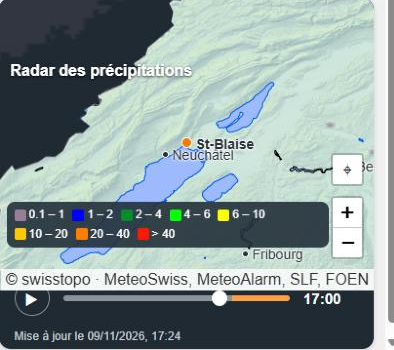
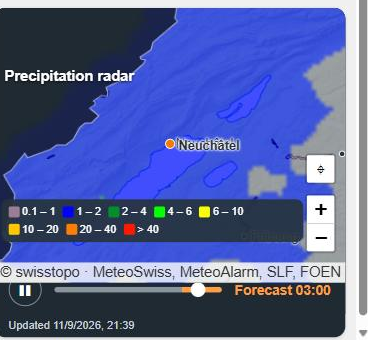
2026.11.7: new HACS page (all in one, 5 languages, animated or static), Neuchâtel and Bern examples

diff --git a/custom_components/meteoswiss4ha/frontend/meteoswiss-map.js b/custom_components/meteoswiss4ha/frontend/meteoswiss-map.js
@@ -678,7 +678,7 @@ class MeteoSwissMap {
     const kind = this.warnKind;
     const loc = lang(this._hass, this.options?.language);
     const fmt = (s) => (s ? new Date(s).toLocaleString(loc, {
-      weekday: "short", day: "numeric", month: "numeric", hour: "2-digit", minute: "2-digit",
+      weekday: "short", day: "numeric", month: "numeric", hour: "2-digit", minute: "2-digit", hourCycle: "h23",
     }) : "");
     const now = Date.now();
     const esc = (t) => String(t || "").replace(/[&<>"]/g, (c) => ({ "&": "&amp;", "<": "&lt;", ">": "&gt;", '"': "&quot;" })[c]);
@@ -820,7 +820,7 @@ class MeteoSwissMap {
     const frame = this._radarFrames[index];
     this._radarFrames.forEach((f, i) => f.layer.setOpacity(i === index ? (f.forecast ? 0.75 : 0.85) : 0));
     this.player.querySelector("input").value = index;
-    const t = new Date(frame.time).toLocaleTimeString(lang(this._hass, this.options?.language), { hour: "2-digit", minute: "2-digit" });
+    const t = new Date(frame.time).toLocaleTimeString(lang(this._hass, this.options?.language), { hour: "2-digit", minute: "2-digit", hourCycle: "h23" });
     const label = this.player.querySelector(".time");
     label.textContent = frame.forecast ? `${this.t.forecastLabel} ${t}` : t;
     label.classList.toggle("fc", frame.forecast);
@@ -888,7 +888,7 @@ class MeteoSwissMap {
     const when = dates.length ? new Date(Math.max(...dates)) : new Date(this.data.updated);
     this.updated.hidden = false;
     this.updated.textContent = `${this.t.updated} ${when.toLocaleDateString(lang(this._hass, this.options?.language))}${
-      dates.length ? "" : ", " + when.toLocaleTimeString(lang(this._hass, this.options?.language), { hour: "2-digit", minute: "2-digit" })
+      dates.length ? "" : ", " + when.toLocaleTimeString(lang(this._hass, this.options?.language), { hour: "2-digit", minute: "2-digit", hourCycle: "h23" })
     }`;
   }
 }

diff --git a/custom_components/meteoswiss4ha/frontend/meteoswiss-pollen-card.js b/custom_components/meteoswiss4ha/frontend/meteoswiss-pollen-card.js
@@ -97,7 +97,7 @@ const loadPollen = (hass) => {
 };
 
 const STYLE = `
-ha-card { padding: 12px; }
+ha-card { padding: 12px; container-type: inline-size; }
 .title { display: flex; align-items: center; gap: 6px; font-size: 18px; margin: 0 2px 10px; }
 .title ha-icon { --mdc-icon-size: 22px; color: #66bb6a; }
 .grid { display: grid; gap: 8px; }
@@ -110,10 +110,18 @@ ha-card { padding: 12px; }
 .st .ic { background: rgba(127,127,127,.2); }
 .ic { flex: 0 0 38px; height: 38px; border-radius: 50%; display: flex; align-items: center; justify-content: center; }
 .ic ha-icon { --mdc-icon-size: 22px; }
-.txt { min-width: 0; }
+.txt { min-width: 0; overflow: hidden; }
 .lv { font-weight: 600; font-size: 14px; white-space: nowrap; overflow: hidden; text-overflow: ellipsis; }
-.val { font-size: 12px; color: var(--secondary-text-color); white-space: nowrap; }
-.stn { font-weight: 600; font-size: 14px; }
+.val { font-size: 12px; color: var(--secondary-text-color); white-space: nowrap; overflow: hidden; text-overflow: ellipsis; }
+.stn { font-weight: 600; font-size: 14px; min-width: 0; white-space: nowrap; overflow: hidden; text-overflow: ellipsis; }
+/* Narrow cards: no round icons, tighter tiles. */
+@container (max-width: 440px) {
+  .tile:not(.sp) .ic { display: none; }
+  .tile { padding: 7px 8px; }
+  .lv { font-size: 13px; }
+  .val { font-size: 11px; }
+  .grid { gap: 6px; }
+}
 .empty { color: var(--secondary-text-color); padding: 8px; }
 `;
 

diff --git a/custom_components/meteoswiss4ha/frontend/meteoswiss-weather-card.js b/custom_components/meteoswiss4ha/frontend/meteoswiss-weather-card.js
@@ -282,7 +282,7 @@ class MeteoSwissWeatherCard extends HTMLElement {
       if (h.temperature != null) {
         parts.push(`<text class="t" x="${x(i).toFixed(1)}" y="${(y(h.temperature) - 8).toFixed(1)}" text-anchor="middle">${Math.round(h.temperature)}°</text>`);
       }
-      parts.push(`<text class="ax" x="${x(i).toFixed(1)}" y="${PB + 16}" text-anchor="middle">${esc(d.toLocaleTimeString(loc, { hour: "2-digit", minute: "2-digit" }))}</text>`);
+      parts.push(`<text class="ax" x="${x(i).toFixed(1)}" y="${PB + 16}" text-anchor="middle">${esc(d.toLocaleTimeString(loc, { hour: "2-digit", minute: "2-digit", hourCycle: "h23" }))}</text>`);
     });
     return `<svg viewBox="0 0 ${W} ${H + 4}" style="color:var(--primary-text-color)">${parts.join("")}</svg>`;
   }
@@ -303,7 +303,7 @@ class MeteoSwissWeatherCard extends HTMLElement {
     const icons = a.icons_url;
     const num = (v, d = 0) => (v == null || isNaN(v) ? "–" : Number(v).toLocaleString(loc, { maximumFractionDigits: d, minimumFractionDigits: d }));
     const img = (code) => (icons && code != null ? `<img src="${icons}/${code}.svg" alt="">` : `<img alt="">`);
-    const time = (s) => (s ? new Date(s).toLocaleTimeString(loc, { hour: "2-digit", minute: "2-digit" }) : "");
+    const time = (s) => (s ? new Date(s).toLocaleTimeString(loc, { hour: "2-digit", minute: "2-digit", hourCycle: "h23" }) : "");
     const parts = [];
 
     if (c.show_header !== false) {

diff --git a/custom_components/meteoswiss4ha/frontend/meteoswiss-forecast.js b/custom_components/meteoswiss4ha/frontend/meteoswiss-forecast.js
@@ -168,7 +168,7 @@ class MeteoSwissForecastCard extends HTMLElement {
     };
     if (this._hourly?.length) {
       const items = this._hourly.slice(0, Math.max(1, Number(c.hours) || 12)).map((f) => `<div class="item">
-        <span class="t">${new Date(f.datetime).toLocaleTimeString(loc, { hour: "2-digit", minute: "2-digit" })}</span>
+        <span class="t">${new Date(f.datetime).toLocaleTimeString(loc, { hour: "2-digit", minute: "2-digit", hourCycle: "h23" })}</span>
         ${img(f.meteoswiss_symbol, f.condition)}<span class="hi">${num(f.temperature)}°</span><span class="p">${precip(f)}</span></div>`);
       parts.push(`<div class="sec"><div class="strip">${items.join("")}</div></div>`);
     }

diff --git a/custom_components/meteoswiss4ha/const.py b/custom_components/meteoswiss4ha/const.py
@@ -18,7 +18,7 @@ ICON_PACKS: Final = ("animated", "vivid", "classic")
 FRONTEND_URL: Final = f"/{DOMAIN}/frontend"
 PANEL_URL_PATH: Final = "meteoswiss"
 # Bumped with the manifest version; busts the browser cache of the map module.
-VERSION: Final = "2026.11.6"
+VERSION: Final = "2026.11.7"
 
 # Attribute / forecast key carrying the native MeteoSwiss symbol code.
 ATTR_METEOSWISS_SYMBOL: Final = "meteoswiss_symbol"

diff --git a/README.md b/README.md
@@ -2,35 +2,72 @@
 
 <img src="https://raw.githubusercontent.com/SashConnection/meteoswiss4HA/main/docs/images/logo.png" alt="Logo" width="96" align="right">
 
-Official MeteoSwiss weather in Home Assistant: current conditions, local forecast with animated pictograms, precipitation radar, weather warnings, natural hazards and pollen, with a Switzerland map for your dashboards.
+**All of Swiss weather in Home Assistant, in one integration.**
+Official MeteoSwiss data, ready-made cards, nothing to program — in **German, French, Italian, Romansh and English**.
 
 🇫🇷 **[Mode d'emploi en français](https://github.com/SashConnection/meteoswiss4HA/blob/main/docs/GUIDE.fr.md)**
 
-![MeteoSwiss Complete For HA](https://raw.githubusercontent.com/SashConnection/meteoswiss4HA/main/docs/images/overview.jpg)
+![MeteoSwiss Complete For HA](https://raw.githubusercontent.com/SashConnection/meteoswiss4HA/main/docs/images/overview.png)
 
-## At a glance
+## Everything in one
+
+| | |
+|---|---|
+| 🌤 **Weather** | Current conditions from the nearest station, forecast for 9 days and hour by hour |
+| 🌧 **Radar** | The last 3 hours of the MeteoSwiss radar, then the rain forecast for the next 12 hours |
+| ⚠ **Weather warnings** | Rain, thunderstorms, wind, snow, slippery roads, heat, frost — official MeteoSwiss warnings |
+| 🔥 **Natural hazards** | Forest fire, floods, drought (FOEN) and avalanches (SLF) |
+| 🌼 **Pollen** | 7 species, 15 measuring stations across Switzerland |
+| 🗺 **Switzerland map** | All of the above on one map, or zoomed on your region |
+
+## Five ready-made cards
 
 <table>
 <tr>
-<td width="33%" valign="top"><a href="#weather"><img src="https://raw.githubusercontent.com/SashConnection/meteoswiss4HA/main/docs/images/map-weather.jpg" width="260" alt="Weather map"></a><br><b>Weather map</b><br><sub>Pictograms and temperatures for 31 towns, 9 days</sub></td>
-<td width="33%" valign="top"><a href="#precipitation-radar"><img src="https://raw.githubusercontent.com/SashConnection/meteoswiss4HA/main/docs/images/map-radar.jpg" width="260" alt="Precipitation radar"></a><br><b>Precipitation radar</b><br><sub>Last 3 hours, every 5 minutes</sub></td>
-<td width="33%" valign="top"><a href="#precipitation-radar"><img src="https://raw.githubusercontent.com/SashConnection/meteoswiss4HA/main/docs/images/map-radar-forecast.jpg" width="260" alt="Radar forecast"></a><br><b>Radar forecast</b><br><sub>Hourly rain forecast after the radar</sub></td>
+<td width="50%" valign="top"><img src="https://raw.githubusercontent.com/SashConnection/meteoswiss4HA/main/docs/images/card-weather.jpg" width="100%" alt="Detailed weather"><br><b>Detailed weather</b><br><sub>Your place and altitude, the measurements you choose, hourly chart, 9 days</sub></td>
+<td width="50%" valign="top"><img src="https://raw.githubusercontent.com/SashConnection/meteoswiss4HA/main/docs/images/card-pollen.jpg" width="100%" alt="Pollen"><br><b>Pollen</b><br><sub>A sketch of each plant, colored by the pollen level, for the stations you choose</sub>
+<br><br><img src="https://raw.githubusercontent.com/SashConnection/meteoswiss4HA/main/docs/images/card-forecast.png" width="100%" alt="Forecast"><br><b>Forecast</b><br><sub>Compact current weather, hours and days</sub></td>
 </tr>
 <tr>
-<td width="33%" valign="top"><a href="#weather-warnings"><img src="https://raw.githubusercontent.com/SashConnection/meteoswiss4HA/main/docs/images/map-warnings.jpg" width="260" alt="Weather warnings"></a><br><b>Weather warnings</b><br><sub>Rain, storms, wind, snow, ice, heat, frost</sub></td>
-<td width="33%" valign="top"><a href="#forest-fire-floods-drought"><img src="https://raw.githubusercontent.com/SashConnection/meteoswiss4HA/main/docs/images/map-fire.jpg" width="260" alt="Forest fire"></a><br><b>Forest fire</b><br><sub>FOEN danger by region</sub></td>
-<td width="33%" valign="top"><a href="#forest-fire-floods-drought"><img src="https://raw.githubusercontent.com/SashConnection/meteoswiss4HA/main/docs/images/map-flood.jpg" width="260" alt="Floods and drought"></a><br><b>Floods and drought</b><br><sub>FOEN danger by region and river</sub></td>
-</tr>
-<tr>
-<td width="33%" valign="top"><a href="#3-forecast-card"><img src="https://raw.githubusercontent.com/SashConnection/meteoswiss4HA/main/docs/images/card-weather.jpg" width="150" alt="Detailed weather card"></a><br><b>Detailed weather card</b><br><sub>Measurements of your choice, hourly chart, 9 days</sub></td>
-<td width="33%" valign="top"><a href="#5-one-map-per-hazard-or-zoomed-on-your-region"><img src="https://raw.githubusercontent.com/SashConnection/meteoswiss4HA/main/docs/images/card-map-home-radar.png" width="220" alt="Map of your region"></a><br><b>Map of your region</b><br><sub>Any layer, zoomed on your home</sub></td>
-<td width="33%" valign="top"><a href="#6-on-a-phone"><img src="https://raw.githubusercontent.com/SashConnection/meteoswiss4HA/main/docs/images/mobile.jpg" width="130" alt="On a phone"></a><br><b>On a phone</b><br><sub>Compact legend, icon tabs</sub></td>
+<td valign="top"><img src="https://raw.githubusercontent.com/SashConnection/meteoswiss4HA/main/docs/images/map-weather.jpg" width="100%" alt="Switzerland map"><br><b>Switzerland map</b><br><sub>Weather, radar, warnings, hazards and pollen — one tap to switch</sub></td>
+<td valign="top"><img src="https://raw.githubusercontent.com/SashConnection/meteoswiss4HA/main/docs/images/card-map-home-radar.png" width="100%" alt="Map of your region"><br><b>Map of your region</b><br><sub>Any layer, zoomed on your home (here: radar over Neuchâtel)</sub></td>
 </tr>
 </table>
 
-The other cards: [Forecast card](#3-forecast-card) with animated pictograms, [Switzerland map](#4-switzerland-map).
+Add them with **Edit dashboard → Add card → search "MeteoSwiss"**. Every setting is in the card editor: no YAML needed.
 
-> Screenshots were taken with the integration; some values (forecasts, pollen) are examples.
+## Five languages
+
+Everything — settings, entities, cards and map — speaks **Deutsch, Français, Italiano, Rumantsch and English**. By default the cards follow the Home Assistant language; each card can also be set to another one.
+
+![The pollen card in five languages](https://raw.githubusercontent.com/SashConnection/meteoswiss4HA/main/docs/images/languages.jpg)
+
+## Animated or static — your choice
+
+Three pictogram packs, one per MeteoSwiss weather symbol. Pick one in the integration options; the animated pack is the default.
+
+<p>
+<img src="https://raw.githubusercontent.com/SashConnection/meteoswiss4HA/main/custom_components/meteoswiss4ha/icons/animated/1.svg" width="64" alt="Sunny">
+<img src="https://raw.githubusercontent.com/SashConnection/meteoswiss4HA/main/custom_components/meteoswiss4ha/icons/animated/5.svg" width="64" alt="Cloudy">
+<img src="https://raw.githubusercontent.com/SashConnection/meteoswiss4HA/main/custom_components/meteoswiss4ha/icons/animated/17.svg" width="64" alt="Rain">
+<img src="https://raw.githubusercontent.com/SashConnection/meteoswiss4HA/main/custom_components/meteoswiss4ha/icons/animated/23.svg" width="64" alt="Thunderstorm">
+<img src="https://raw.githubusercontent.com/SashConnection/meteoswiss4HA/main/custom_components/meteoswiss4ha/icons/animated/26.svg" width="64" alt="Snow">
+<img src="https://raw.githubusercontent.com/SashConnection/meteoswiss4HA/main/custom_components/meteoswiss4ha/icons/animated/101.svg" width="64" alt="Clear night">
+</p>
+
+![Pictogram packs](https://raw.githubusercontent.com/SashConnection/meteoswiss4HA/main/docs/images/packs.jpg)
+
+## Ready in 2 minutes
+
+1. **HACS** → ⋮ → Custom repositories → `https://github.com/SashConnection/meteoswiss4HA` (Integration) → Download → restart Home Assistant.
+2. **Settings → Devices & services → Add integration → MeteoSwiss Complete For HA**: pick your station and postal code (the nearest are suggested).
+3. **Add a card** to your dashboard: search "MeteoSwiss".
+
+> Screenshots: Neuchâtel and Bern; some values (forecasts, pollen) are examples.
+
+---
+
+# User guide
 
 ## Contents
 
@@ -124,6 +161,23 @@ show_chart: true
 hours: 24             # 6 to 48
 show_daily: true
 days: 9
+```
+
+<br clear="right">
+
+### Pollen card
+
+<img src="https://raw.githubusercontent.com/SashConnection/meteoswiss4HA/main/docs/images/card-pollen.jpg" alt="Pollen card" width="360" align="right">
+
+The **MeteoSwiss pollen** card shows, for each species you choose, a **sketch of the plant** that takes the color of the pollen level as soon as there is pollen, and for each station you choose the **level and the concentration** (24-hour mean or last hour). Layout: **table** (stations as columns) or **list**. Languages: de, fr, it, rm, en.
+
+```yaml
+type: custom:meteoswiss-pollen-card
+stations: [PNE, PBE]  # Neuchâtel, Bern (default: the station of the integration)
+species: [grasses, birch, hazel]
+layout: table         # or list
+value: mean           # or latest
+language: auto        # or de, fr, it, rm, en
 ```
 
 <br clear="right">

diff --git a/docs/GUIDE.fr.md b/docs/GUIDE.fr.md
@@ -4,31 +4,35 @@
 
 🇬🇧 **[English version](../README.md)**
 
-Ce guide explique comment installer l'intégration, la régler et afficher la météo, le radar et les dangers dans vos tableaux de bord Home Assistant.
+**Toute la météo suisse dans Home Assistant, en une seule intégration.**
+Données officielles de MétéoSuisse, cartes prêtes à l’emploi, rien à programmer — en **allemand, français, italien, romanche et anglais**.
 
-> Les captures ont été faites avec l'intégration ; certaines valeurs (prévisions, pollen) sont des exemples.
+![MeteoSwiss Complete For HA](images/overview.png)
 
-![MeteoSwiss Complete For HA](images/overview.jpg)
+## Tout en un
 
-## En images
+| | |
+|---|---|
+| 🌤 **Météo** | Conditions actuelles de la station la plus proche, prévisions sur 9 jours et heure par heure |
+| 🌧 **Radar** | Les 3 dernières heures du radar MétéoSuisse, puis la prévision de pluie des 12 heures suivantes |
+| ⚠ **Alertes intempéries** | Pluie, orages, vent, neige, routes glissantes, canicule, gel — alertes officielles de MétéoSuisse |
+| 🔥 **Dangers naturels** | Incendies de forêt, crues, sécheresse (OFEV) et avalanches (SLF) |
+| 🌼 **Pollen** | 7 espèces, 15 stations de mesure en Suisse |
+| 🗺 **Carte de la Suisse** | Tout cela sur une carte, ou zoomé sur votre région |
 
-<table>
-<tr>
-<td width="33%" valign="top"><a href="#météo"><img src="images/map-weather.jpg" width="260" alt="Carte météo"></a><br><b>Carte météo</b><br><sub>Pictogrammes et températures de 31 villes, 9 jours</sub></td>
-<td width="33%" valign="top"><a href="#radar-des-précipitations"><img src="images/map-radar.jpg" width="260" alt="Radar des précipitations"></a><br><b>Radar des précipitations</b><br><sub>3 dernières heures, toutes les 5 minutes</sub></td>
-<td width="33%" valign="top"><a href="#radar-des-précipitations"><img src="images/map-radar-forecast.jpg" width="260" alt="Prévision radar"></a><br><b>Prévision radar</b><br><sub>Pluie heure par heure après le radar</sub></td>
-</tr>
-<tr>
-<td width="33%" valign="top"><a href="#alertes-intempéries"><img src="images/map-warnings.jpg" width="260" alt="Alertes intempéries"></a><br><b>Alertes intempéries</b><br><sub>Pluie, orages, vent, neige, verglas, canicule, gel</sub></td>
-<td width="33%" valign="top"><a href="#incendies-de-forêt-crues-sécheresse"><img src="images/map-fire.jpg" width="260" alt="Incendies de forêt"></a><br><b>Incendies de forêt</b><br><sub>Danger OFEV par région</sub></td>
-<td width="33%" valign="top"><a href="#incendies-de-forêt-crues-sécheresse"><img src="images/map-flood.jpg" width="260" alt="Crues et sécheresse"></a><br><b>Crues et sécheresse</b><br><sub>Danger OFEV par région et cours d'eau</sub></td>
-</tr>
-<tr>
-<td width="33%" valign="top"><a href="#3-carte-prévisions"><img src="images/card-weather.jpg" width="150" alt="Carte météo détaillée"></a><br><b>Carte météo détaillée</b><br><sub>Mesures au choix, graphique horaire, 9 jours</sub></td>
-<td width="33%" valign="top"><a href="#5-une-carte-par-danger-ou-zoomée-sur-votre-région"><img src="images/card-map-home-radar.png" width="220" alt="Carte de votre région"></a><br><b>Carte de votre région</b><br><sub>N'importe quelle couche, zoomée sur le domicile</sub></td>
-<td width="33%" valign="top"><a href="#6-sur-téléphone"><img src="images/mobile.jpg" width="130" alt="Sur téléphone"></a><br><b>Sur téléphone</b><br><sub>Légende compacte, onglets en icônes</sub></td>
-</tr>
-</table>
+## Cinq langues
+
+Tout — réglages, entités, cartes et carte de la Suisse — existe en **Deutsch, Français, Italiano, Rumantsch et English**. Les cartes suivent la langue de Home Assistant ; chaque carte peut aussi être réglée sur une autre langue.
+
+![La carte pollen en cinq langues](images/languages.jpg)
+
+## Animé ou fixe, au choix
+
+Trois packs de pictogrammes, un par symbole météo MétéoSuisse ; le pack animé est celui par défaut (réglages → Affichage).
+
+![Packs de pictogrammes](images/packs.jpg)
+
+> Exemples : Neuchâtel et Berne ; certaines valeurs (prévisions, pollen) sont des exemples.
 
 ## Sommaire
 
@@ -119,6 +123,23 @@ show_chart: true
 hours: 24             # 6 à 48
 show_daily: true
 days: 9
+```
+
+<br clear="right">
+
+### Carte pollen
+
+<img src="images/card-pollen.jpg" alt="Carte pollen" width="360" align="right">
+
+La carte **MeteoSwiss pollen** montre, pour chaque espèce choisie, une **esquisse de la plante** qui prend la couleur du niveau de pollen dès qu’il y en a, et pour chaque station choisie le **niveau et la concentration** (moyenne sur 24 heures ou dernière heure). Disposition : **tableau** (stations en colonnes) ou **liste**. Langues : de, fr, it, rm, en.
+
+```yaml
+type: custom:meteoswiss-pollen-card
+stations: [PNE, PBE]  # Neuchâtel, Berne (par défaut : la station de l’intégration)
+species: [grasses, birch, hazel]
+layout: table         # ou list
+value: mean           # ou latest
+language: auto        # ou de, fr, it, rm, en
 ```
 
 <br clear="right">

diff --git a/CHANGELOG.md b/CHANGELOG.md
@@ -3,6 +3,11 @@
 Versions follow the calendar: `YEAR.MONTH.N` (N starts at 0 each month), like Home Assistant.
 The minimum Home Assistant version is a separate setting (2026.1).
 
+## 2026.11.7
+
+- New HACS page: everything in one, five languages, animated or static pictograms, ready in 2 minutes (examples: Neuchâtel and Bern).
+- Pollen card fits narrow dashboards; 24-hour times everywhere.
+
 ## 2026.11.6
 
 - Everything in 5 languages: German, French, Italian, Romansh and English (settings, entities, all cards and the map). Each card has a language option (default: the Home Assistant language).
